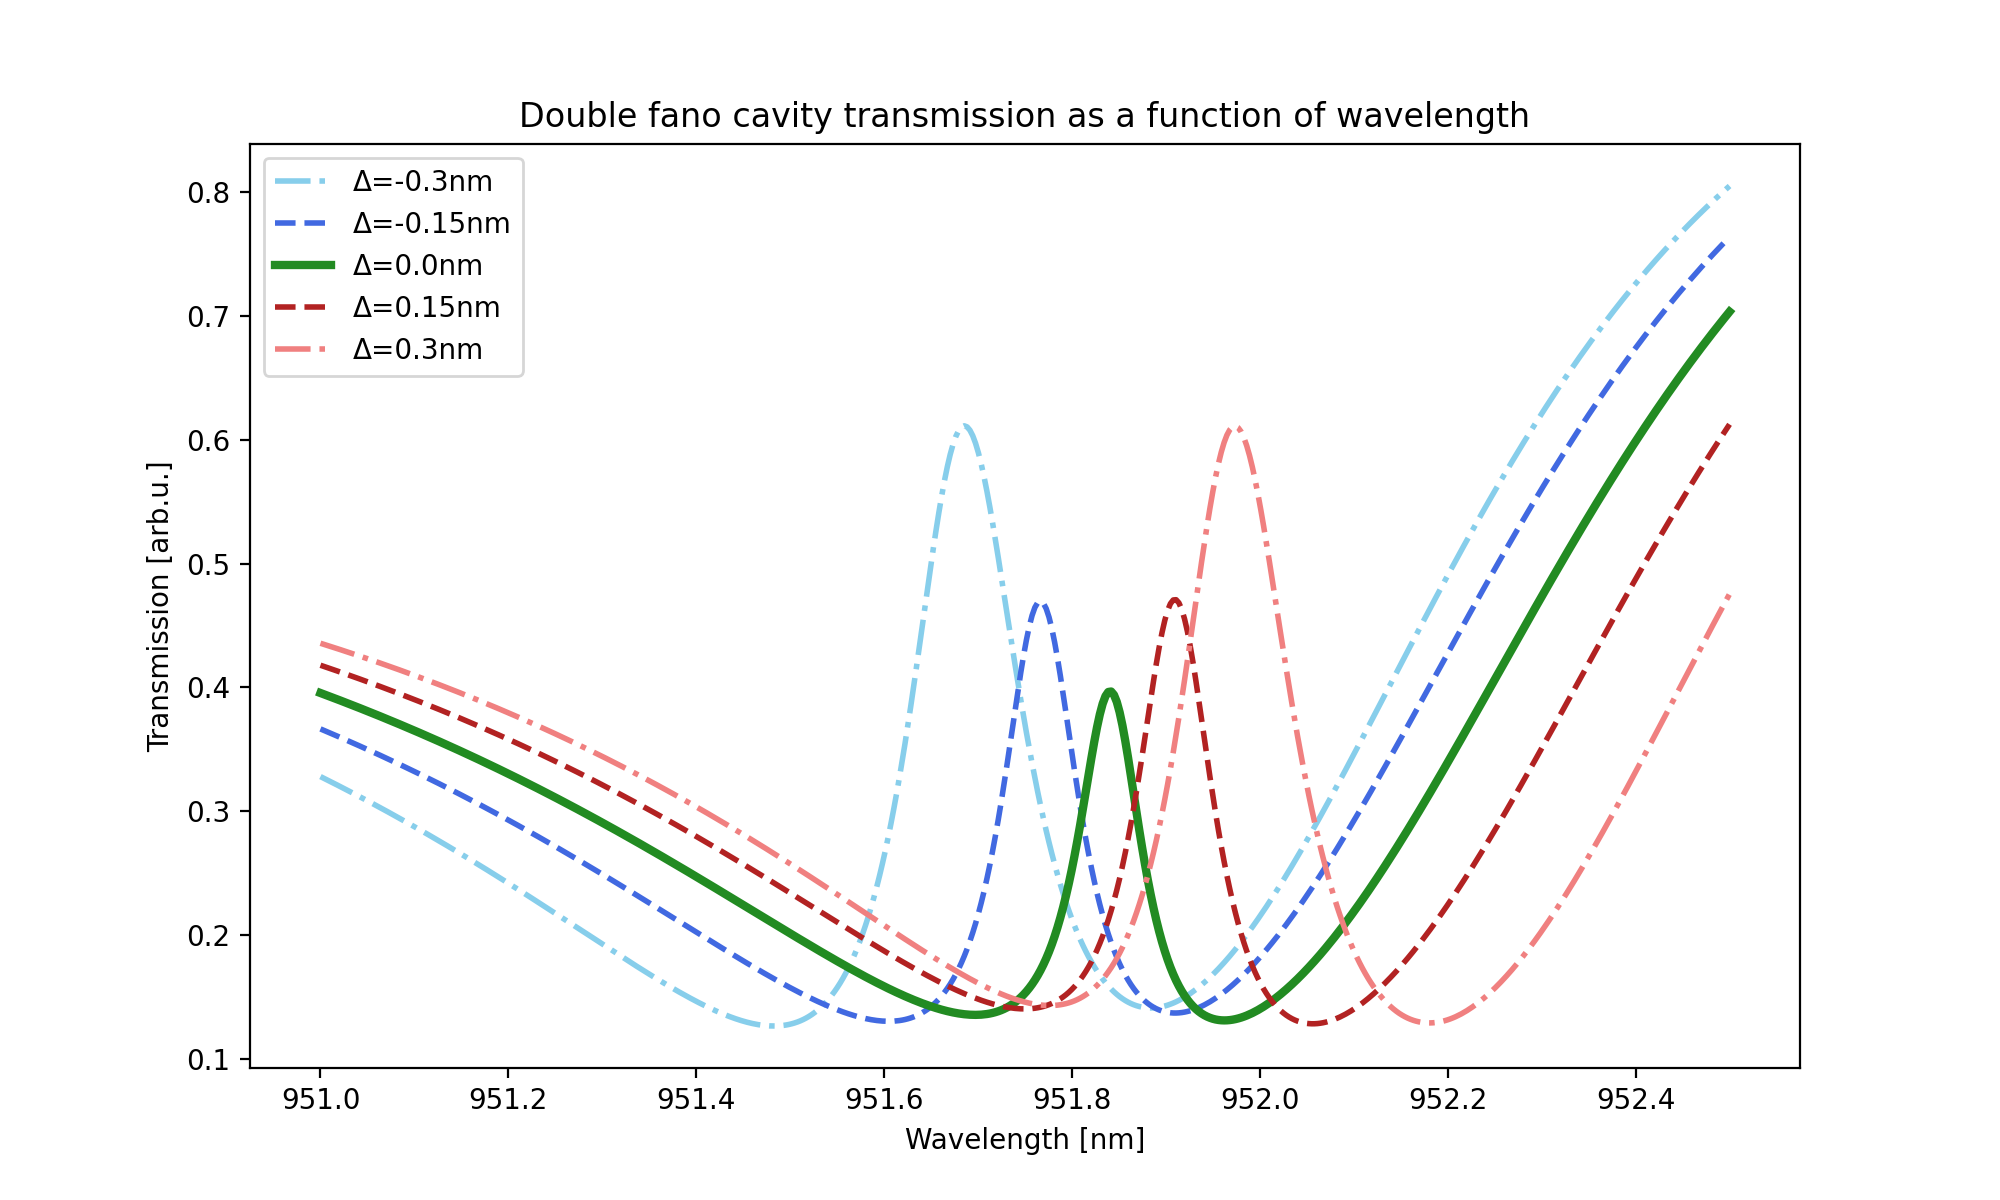
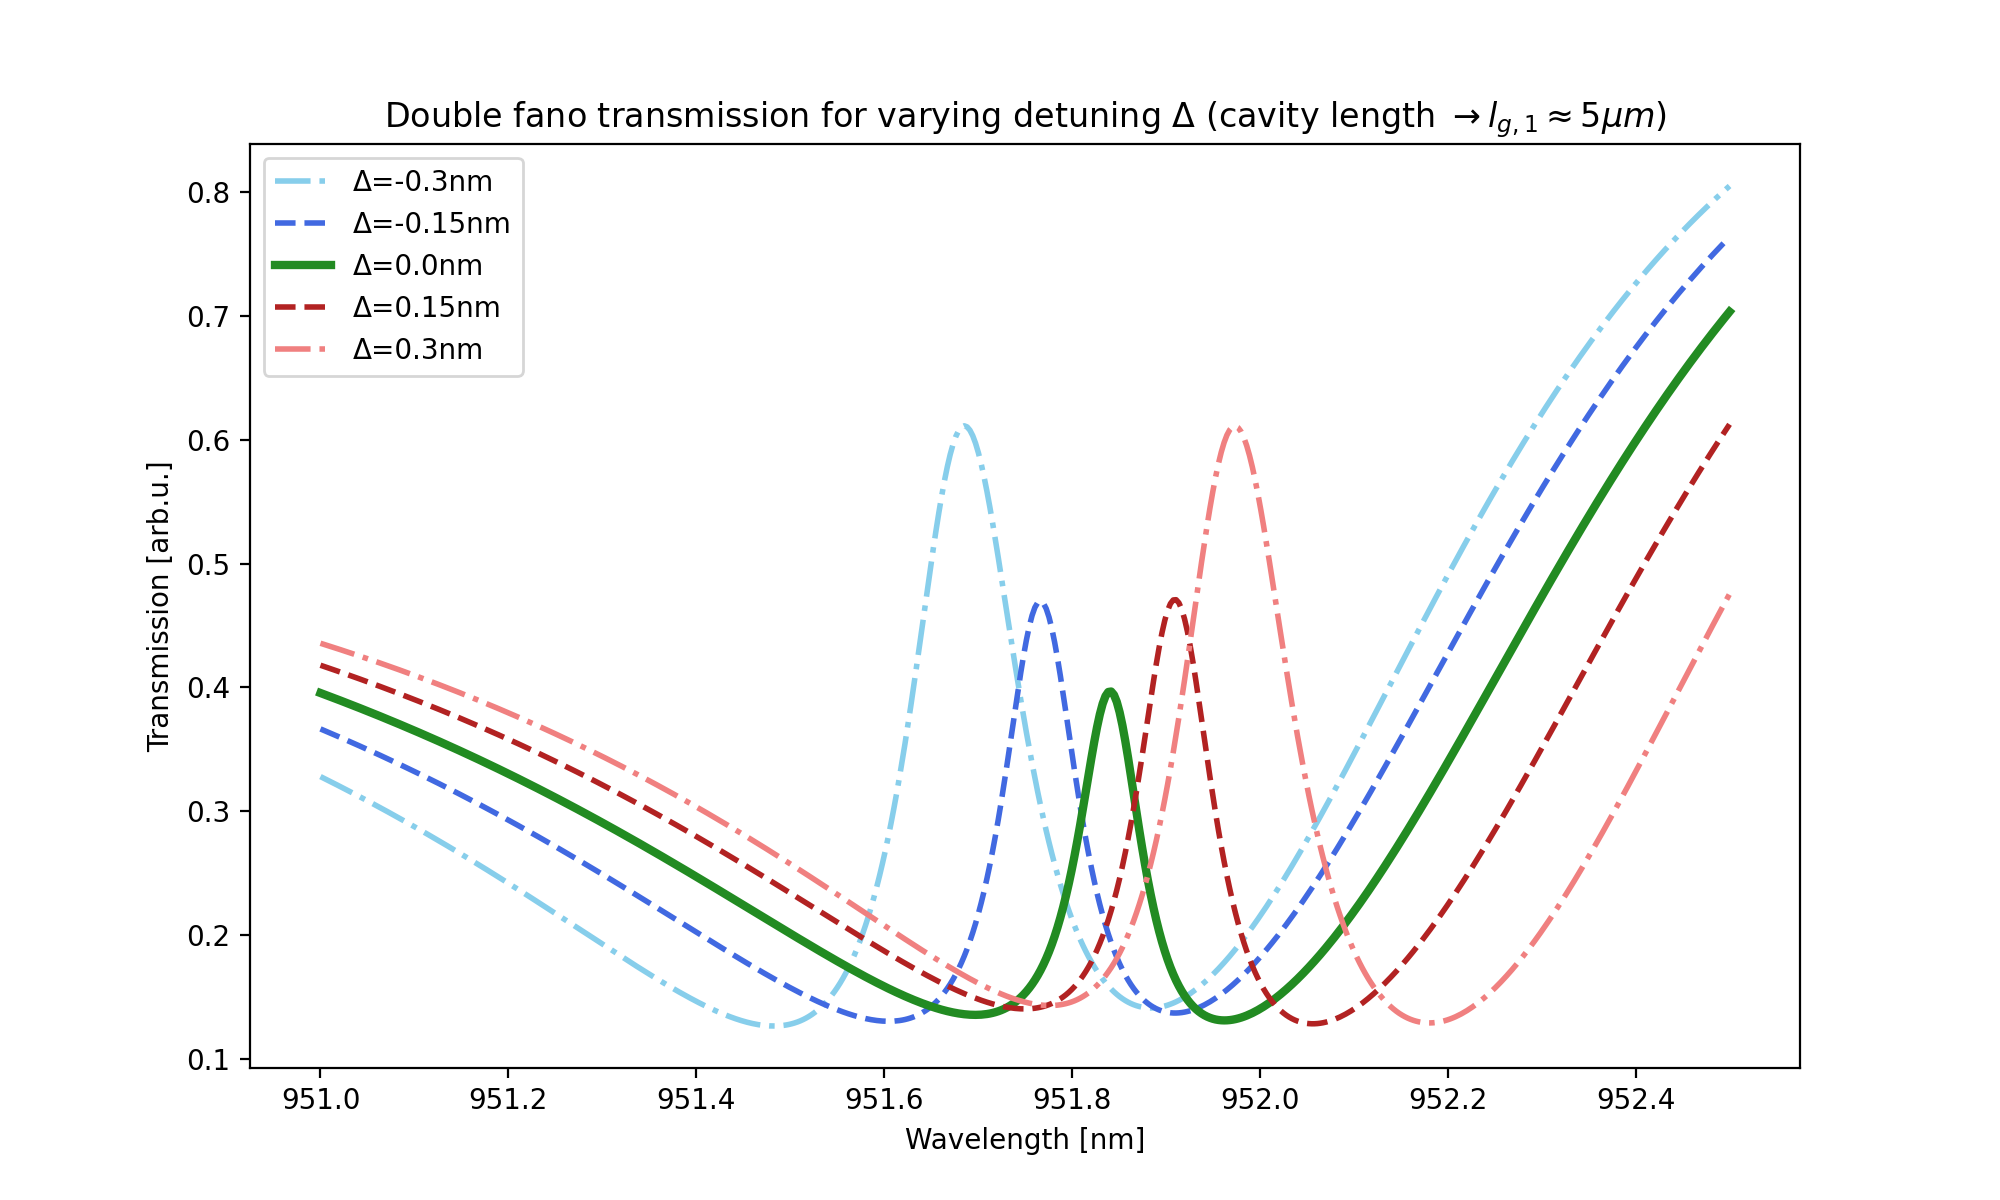
-

Changed region(s): [[0.186, 0.0925, 0.837, 0.1233]]

diff --git a/fano_theory.py b/fano_theory.py
@@ -23,7 +23,7 @@ params2 = M3.lossy_fit([952,952,0.6,1,0.1])
 # α  -> loss factor 
 
 #λs = np.linspace(951, 952.5, 500)
-λs = np.linspace(950, 954, 500)
+λs = np.linspace(950.5, 953.5, 500)
 #λs = np.linspace(945, 960, 10000)
 #λs = np.linspace(951.6, 951.9, 200)
 
@@ -112,7 +112,7 @@ def resonant_cavity_length(params: list, λs: np.array):
     tm = np.sqrt(0.08)
     rm = np.sqrt(0.92)
 
-    lmin = 30
+    lmin = 100
     ls = np.linspace(lmin,lmin+1,100000)*1e3
 
     for l in ls:
@@ -146,7 +146,7 @@ def double_cavity_length(params1: list, params2: list, λs: np.array):
     lengths = []
     Ts = []
 
-    lmin = 5
+    lmin = 100
     ls = np.linspace(lmin,lmin+1,100000)*1e3
 
     for l in ls:
@@ -293,6 +293,7 @@ def detuning_plot(Δs: list, params: list, λs: np.array, intracavity=False, los
         params2 = np.copy(params)
         params2[0] += Δ
         params2[1] += Δ
+        #length = (double_cavity_length(params, params2, λs) + double_cavity_length(params2, params, λs))/2
         Ts =  dual_fano_transmission(params, params2, length, λs, intracavity=intracavity, losses=losses)
         if np.abs(Δ) < 1e-6:
             linesize = 3
@@ -300,8 +301,7 @@ def detuning_plot(Δs: list, params: list, λs: np.array, intracavity=False, los
             linesize = 2
         plt.plot(λs, Ts, color=paint, linestyle=style, linewidth=linesize, label="Δ=%snm" %(round(Δ,2)))
 
-
-    plt.title("Double fano cavity transmission as a function of wavelength")
+    plt.title("Double fano transmission for varying detuning Δ (cavity length %s)" %(r"$\rightarrow l_{g,1} \approx 100 \mu m$"))
     plt.xlabel("Wavelength [nm]")
     plt.ylabel("Transmission [arb.u.]")
     plt.legend()
@@ -309,12 +309,14 @@ def detuning_plot(Δs: list, params: list, λs: np.array, intracavity=False, los
 
 def cavity_length_plot(ls: list, params1: list, params2: list, λs: np.array, intracavity=False, losses=True):
     plt.figure(figsize=(15,6))
-    for l in ls:
+    linestyles = ["-.", "--", "-", "--", "-."]
+    colors = ["skyblue","royalblue","forestgreen", "firebrick", "lightcoral"]
+    for l, paint, style in zip(ls, colors, linestyles):
         Ts = dual_fano_transmission(params1, params2, l, λs, intracavity=intracavity, losses=losses)
-        plt.plot(λs, Ts, label="cavity length: %sμm" % str(round(l*1e-3,2)))
-    #plt.title("Double fano cavity transmission as a function of wavelength (positive detuning)")
+        plt.plot(λs, Ts, color=paint, linestyle=style, linewidth=2, label="cavity length: %sμm" % str(round(l*1e-3,2)))
+    plt.title("Double fano transmission for different cavity lengths %s (Δ = 0.47nm)" %(r"$l_{g,1} \rightarrow l_{g,2}$")) 
     plt.xlabel("Wavelength [nm]")
-    plt.ylabel("Intensity [arb.u.]")
+    plt.ylabel("Normalized transmission [arb.u.]")
     plt.legend(bbox_to_anchor=(1.04, 1), loc="upper left")
     plt.subplots_adjust(right=0.70)
     plt.show() 
@@ -457,11 +459,12 @@ def line_width_comparison(params1: list, params2: list, length: float, intracavi
     return FWHM
 
 
-#### double fano transmission as a function of detuning ####
+#### double fano transmission as a function of detuning #### 
 
-Δs = np.linspace(-1.5, 1.5, 5) # low resolution
+#Δs = np.linspace(-1.5, 1.5, 5) # low resolution
 #Δs = np.linspace(-0.3, 0.3, 5) # high resolution
-detuning_plot(Δs, params1, λs, intracavity=False, losses=True)
+#Δs = np.linspace(0, 0.15, 5)
+#detuning_plot(Δs, params1, λs, intracavity=False, losses=True)
 
 #### Heat maps of cavity transmission as a function of wavelength and cavity length ####
 
@@ -477,8 +480,11 @@ detuning_plot(Δs, params1, λs, intracavity=False, losses=True)
 #length = double_cavity_length(params1, params2, λs)
 #dual_fano_transmission_plot(params1, params2, length, λs, intracavity=False, losses=True, total_grating_trans=True, zoom=False)
 
+#Δ = 0.47
+#params2[0] += Δ
+#params2[1] += Δ
 #ls = np.linspace(double_cavity_length(params1,params2,λs), double_cavity_length(params2,params1,λs), 5)
-#cavity_length_plot(ls, params1, params2, λs, intracavity=False)
+#cavity_length_plot(ls, params1, params2, λs, intracavity=False, losses=True)
 
 
 #### for arbitrary line width comparison of the single and double fano models ####
